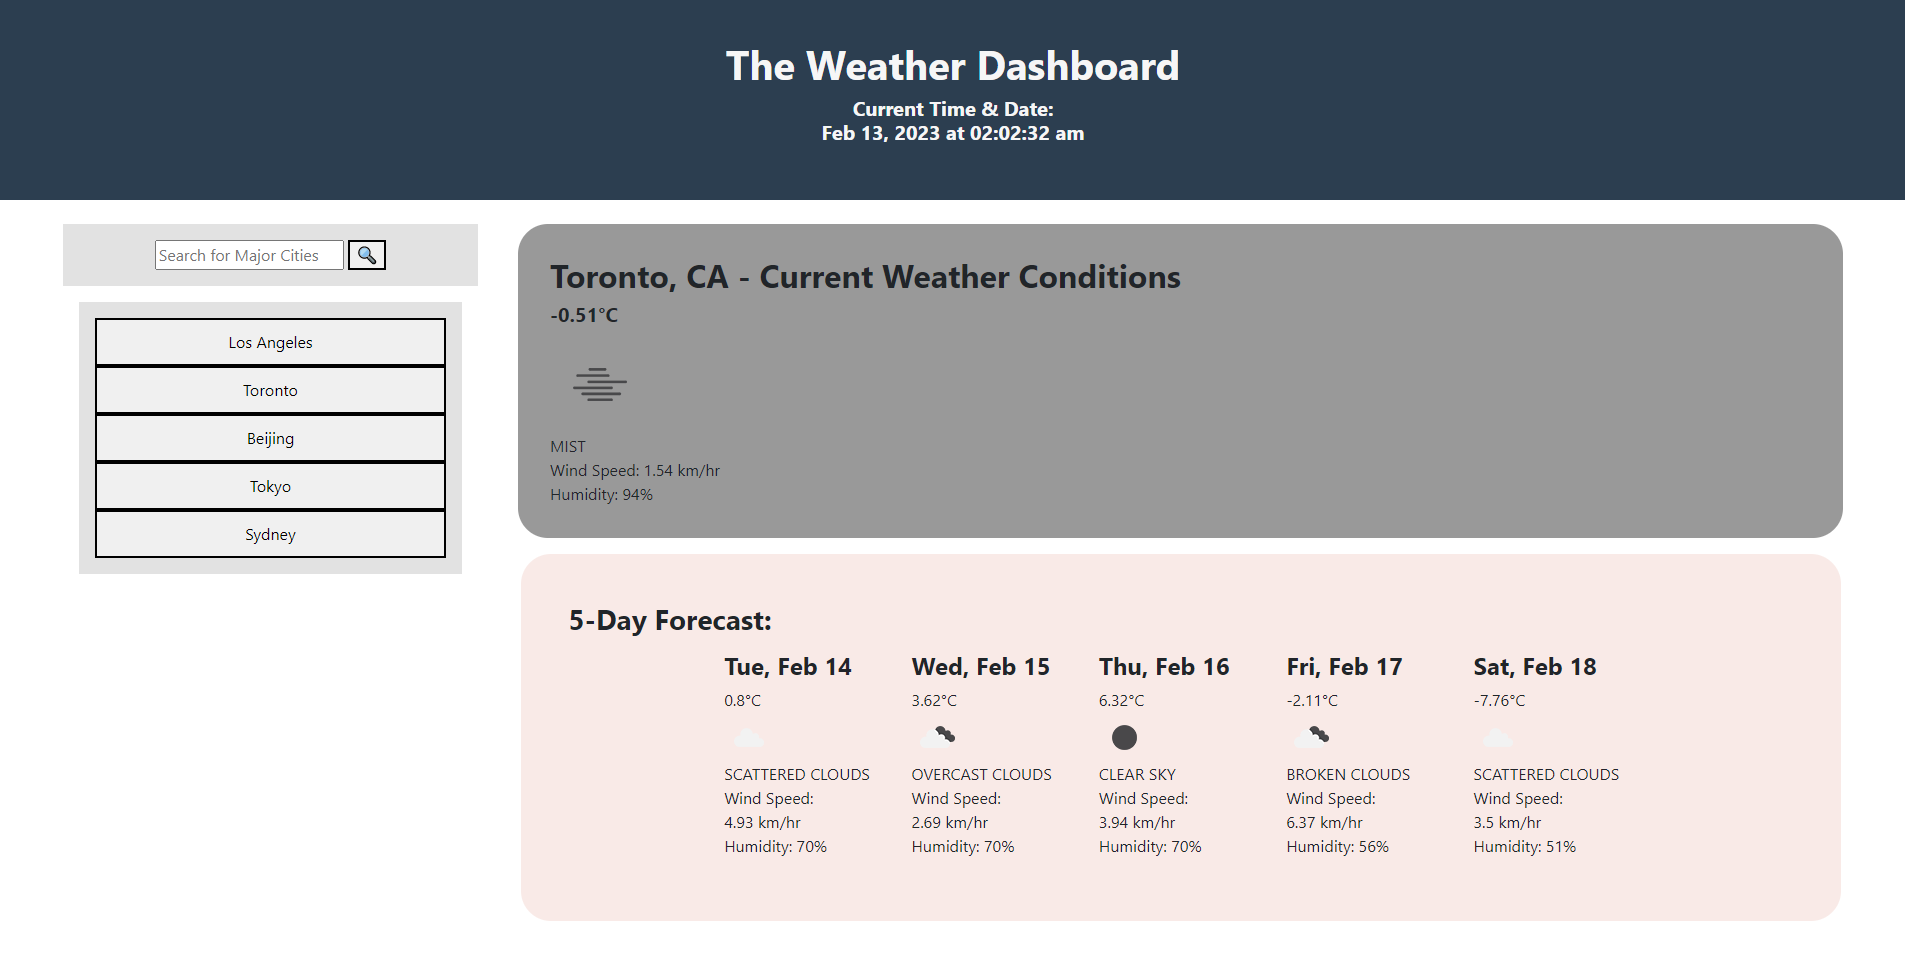
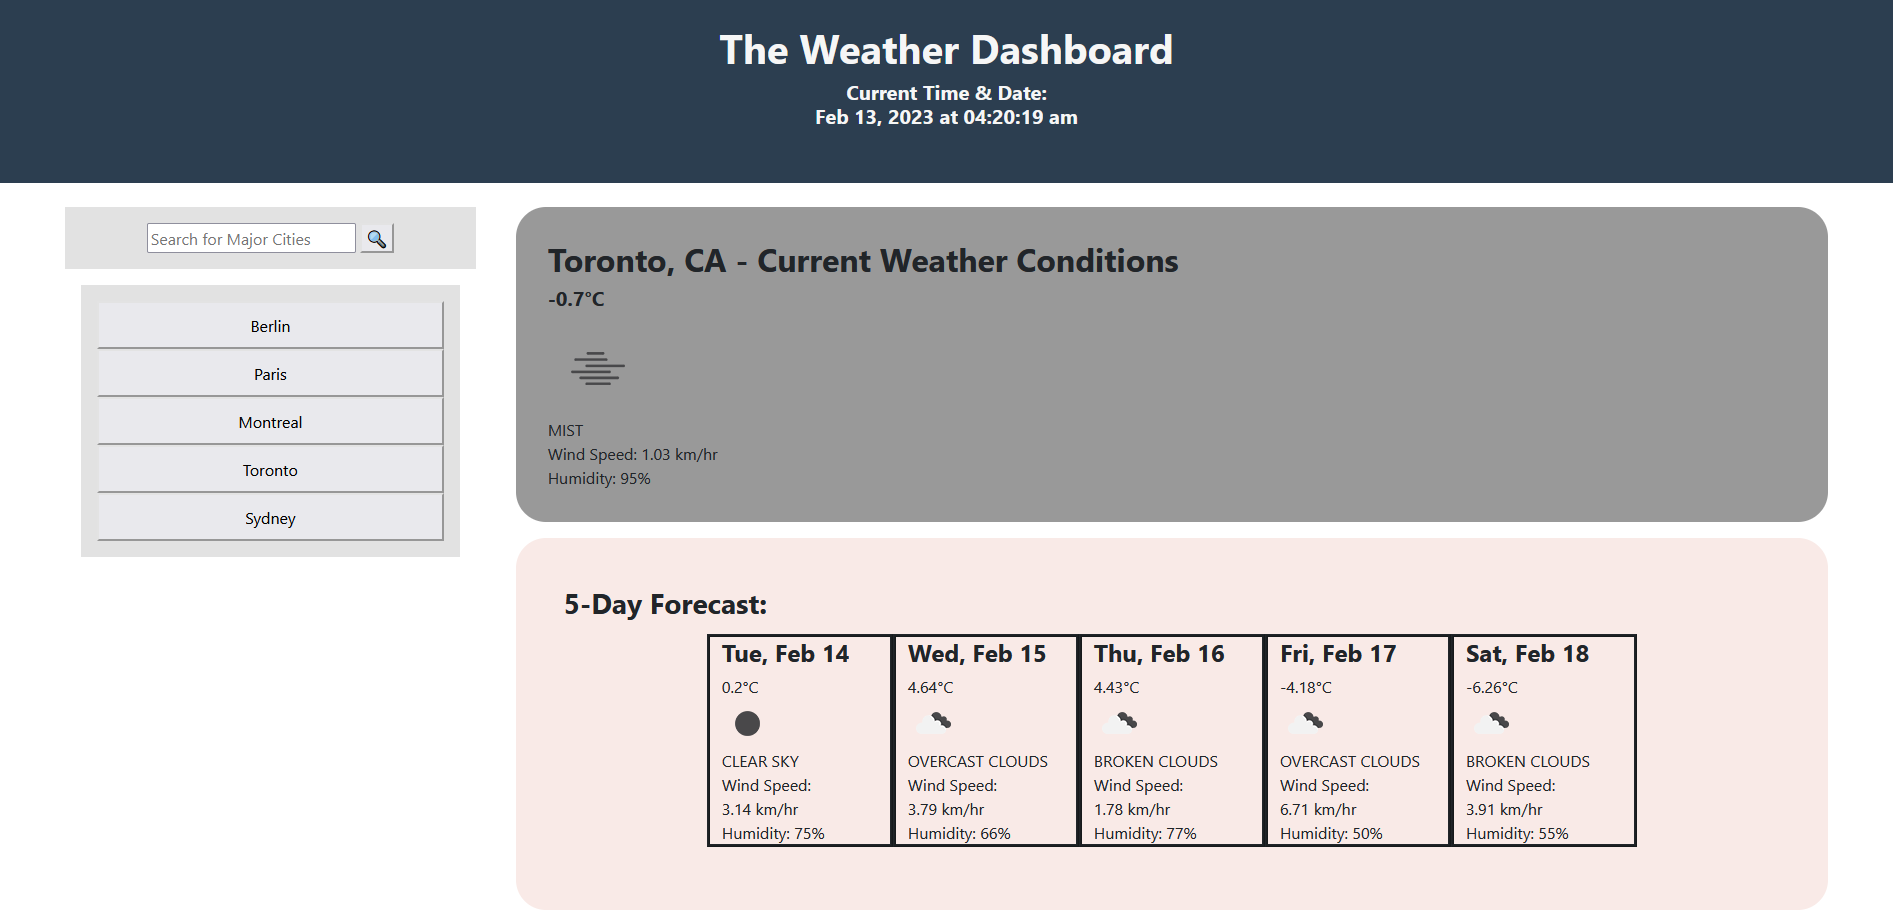
Border for forecast to better match mockup example, updated readme

diff --git a/assets/js/script.js b/assets/js/script.js
@@ -38,16 +38,15 @@ var weatherForecast = {
             const { temp, humidity } = data.list[i].main;
             const { speed } = data.list[i].wind;
 
-            if (j < 5) {
-                // Uses children to select html .elements then adds the above variables within strings to display
-                forecastEl.children[j].children[0].innerText = dayjs(dt_txt).format('ddd, MMM D');
-                forecastEl.children[j].children[1].innerText = temp + "°C";
-                forecastEl.children[j].children[2].src = "https://openweathermap.org/img/wn/" + icon + ".png";
-                forecastEl.children[j].children[3].innerText = description.toUpperCase();
-                forecastEl.children[j].children[4].innerText = "Wind Speed: \n" + speed + " km/hr";
-                forecastEl.children[j].children[5].innerText = "Humidity: " + humidity + "%";
-                j += 1;
-            }
+            // Uses children to select html .elements then adds the above variables within strings to display
+            forecastEl.children[j].children[0].innerText = dayjs(dt_txt).format('ddd, MMM D');
+            forecastEl.children[j].children[1].innerText = temp + "°C";
+            forecastEl.children[j].children[2].src = "https://openweathermap.org/img/wn/" + icon + ".png";
+            forecastEl.children[j].children[3].innerText = description.toUpperCase();
+            forecastEl.children[j].children[4].innerText = "Wind Speed: \n" + speed + " km/hr";
+            forecastEl.children[j].children[5].innerText = "Humidity: " + humidity + "%";
+            j += 1;
+            
     }
 },
 }

diff --git a/assets/css/style.css b/assets/css/style.css
@@ -93,9 +93,29 @@ h6 {
 }
 
 #forecast-container {
-  background:  var(--lightred);
+  background: var(--lightred);
   padding:  0.5em;
   margin-top: 1em;
   border-radius: 30px;
   width: 100%;
+}
+
+#oneDayFC {
+  border-style: ridge;
+}
+
+#twoDayFC {
+  border-style:ridge;
+}
+
+#threeDayFC {
+  border-style:ridge;
+}
+
+#fourDayFC {
+  border-style:ridge;
+}
+
+#fiveDayFC {
+  border-style:ridge;
 }
